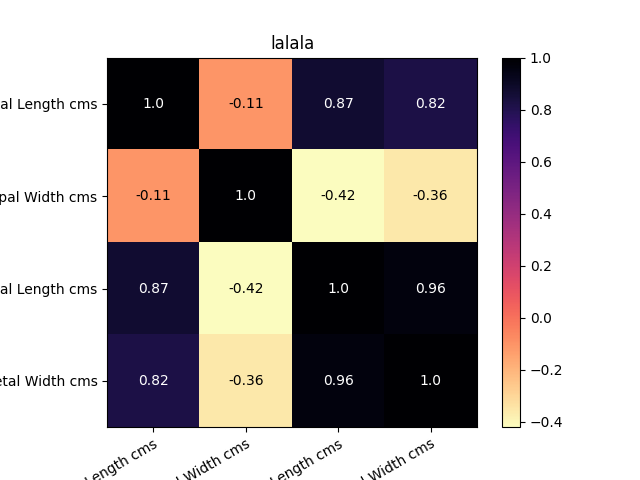
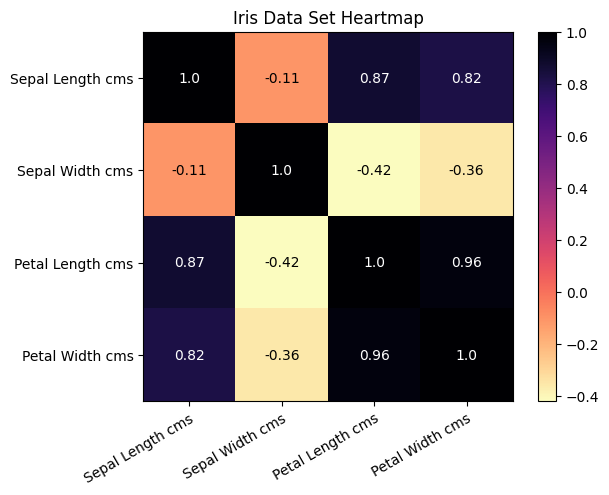
Update README.md to contain description of Heatmaps

diff --git a/analysis.py b/analysis.py
@@ -198,7 +198,7 @@ sns.boxplot(x='Species', y="Petal Length cms", data=outlier_test).set_title("Pet
 plt.savefig('images/plots/box_plots/outliers_box_plots.png')
 plt.show()
 
-# the follwoig lines of code are based on - https://www.geeksforgeeks.org/detect-and-remove-the-outliers-using-python/
+# the following lines of code are based on - https://www.geeksforgeeks.org/detect-and-remove-the-outliers-using-python/
 # accessed- 10/04/2023
 # Define Q1 variable for numpy percentile method for the dataset column sepal width
 Q1 = np.percentile(outlier_test['Petal Length cms'], 25,
@@ -260,6 +260,8 @@ iris_heatmap.drop('Species', axis=1, inplace=True)
 corr = iris_heatmap.corr()
 # The following lines of code to format the heatmap were taken from here
 # https://www.analyticsvidhya.com/blog/2021/06/guide-to-data-visualization-with-python-part-1/ - accessed 10/04/2023
+# and here https://stackoverflow.com/questions/32723798/how-do-i-add-a-title-and-axis-labels-to-seaborn-heatmap -
+# accessed 13/04/2023
 fig, ax = plt.subplots()
 img = ax.imshow(corr.values,cmap = "magma_r")
 # set labels
@@ -281,5 +283,5 @@ for i in range(len(corr.columns)):
             text = ax.text(j, i, np.around(corr.iloc[i, j], decimals=2),
                        ha="center", va="center", color="white")
 
-plt.savefig('images/plots/heatmap/heatmap.png')
+plt.savefig('images/plots/heatmap/heatmap.png', bbox_inches='tight')
 plt.show()

diff --git a/README.md b/README.md
@@ -112,8 +112,8 @@ file of histogram for sepal length
 histogram for sepal width
 ---
 ## Discussion
-Python is an extremely powerful tool for automating the handling of large data sets. Using Python scripting the Iris 
-Data Set was automatically read in as a dataframe by a module within Python from an online data repository. The 
+Python is an extremely powerful tool for automating the handling of large datasets. Using Python scripting the Iris 
+Dataset was automatically read in as a dataframe, by a module within Python, from an online data repository. The 
 Pandas module was used to achieve this. Pandas is a library that can be imported into Python that allows for data 
 analysis through the use of specifically designed tools that automate complex functions on data sets. 
 
@@ -142,16 +142,13 @@ from the table this equals 150, as expected.
 
 ![Data Summary](images/tables/data_summary.png "Iris Data Set Summary")
 
- 
-
-
-Boxplots were used to to identify the presence of outliers in the data set. Outliers are described as objects that 
+Boxplots were used to identify the presence of outliers in the data set. Outliers are described as objects that 
 deviate significantly from the rest for the objects. 
 [Outliers](https://medium.com/analytics-vidhya/its-all-about-outliers-cbe172aa1309) can be caused by a number of things 
 including measurement error, sampling problems and natural variation. The outliers are visible on 
 [Plot 1](images/plots/box_plots/box_plots.png) as diamonds. Plot 1 demonstrates that the number of outliers is minimal.
 
-**Plot 1 - Iris Data Set Boxplots**
+**Plot 1 - Iris Dataset Boxplots**
 
 ![Boxplot](images/plots/box_plots/box_plots.png "Iris Data Set Boxplots")
 
@@ -159,11 +156,11 @@ Applying the [interquartile method](https://www.geeksforgeeks.org/detect-and-rem
 it is possible to remove outliers from the data set using python. The challenge with the Iris data set is it's small
 size and relatively small number of outliers. For demonstrative purposes one could look at cleansing the Iris-setosa 
 petal length outliers. [Plot 2](images/plots/box_plots/outliers_box_plots.png) demonstrates the outliers for this 
-subset of the data set. [Plot 3](images/plots/box_plots/no_outliers_box_plots.png) demonstrates the boxplot for the 
-subset that has been cleansed of outliers using the interquartile method. Plot seems to indicate that 
-further outliers remain. The small dataset size is causing this anomaly. Four outlier data points are removed when 
-applying the interquartile method for this sub dataset. Given the anomaly caused by removing outliers, cleansing data 
-of outliers only adds value with larger data sets. 
+subset of the dataset. [Plot 3](images/plots/box_plots/no_outliers_box_plots.png) demonstrates the boxplot for the 
+subset that has been cleansed of outliers using the interquartile method. Plot 3 appears to indicate that 
+further outliers remain. The small data set size is causing this anomaly. Four outlier data points are removed when 
+applying the interquartile method for this subset of the original data set. Given the anomaly caused by removing 
+outliers, cleansing data of outliers only adds value with larger datasets. 
 
 **Plot 2 - Outlier Demonstration**
 
@@ -204,16 +201,29 @@ length and width.
 
 ![Histogram 4](images/plots/histograms/sepal_width_histogram.png "Iris Data Set Sepal Width Distribution")
 
-Violin plots  (see plot 8) are similar to boxplots. In simple terms denser regions of data are fatter while less dense regions are 
-thinner. The output of this analysis supports the view that there is clear separation in petal length and petal width
-for Iris-setosa, making these variables good identifiers of the Iris-setosa species. It also confirms that there is 
-overlap between sepal length and sepal width making them less ideal candidate for blind classification of the species.
+Violin plots  (see plot 8) are similar to boxplots. In simple terms denser regions of data are fatter while less dense 
+regions are thinner. The output of this analysis supports the view that there is clear separation in petal length and 
+petal width for Iris-setosa, making these variables good identifiers of the Iris-setosa species. It also confirms that 
+there is overlap between sepal length and sepal width making them less ideal candidate for blind classification of the 
+species.
 
-**Plot 8 - Iris Data Set Violin PLots**
+**Plot 8 - Iris Dataset Violin PLots**
 
 ![Violin Plot](images/plots/violin_plots/violin_plots.png "Iris Data Set Violin PLots")
 
 ### Heatmaps
+Heatmaps are used to identify correlations between variables. Values that are closer to 1 or -1 indicate correlation 
+between variables. Colours with values of 1 are represented by dark colours and smaller values are represented by
+lighter colours. 
+
+**Plot 9 - Iris Data Set Heatmap**
+
+![Heatmap](images/plots/heatmap/heatmap.png "Iris Data Set Heatmap")
+
+The heatmap demonstrates a high level of correlation between petal width and petal length (having a vlue close to 1) and
+a low correlation between sepal width and sepal length. The heatmap also demonstrates a relationship between petal 
+length and sepal width and separately between petal width and sepal length.
+
 
 ## Conclusion
 
@@ -231,9 +241,11 @@ overlap between sepal length and sepal width making them less ideal candidate fo
 8. https://www.delftstack.com/howto/python-pandas/pandas-png/ - accessed 30/03/2023
 9. https://www.geeksforgeeks.org/exploratory-data-analysis-on-iris-dataset/ - accessed 03/04/2023
 10. https://www.marsja.se/how-to-save-a-seaborn-plot-as-a-file-e-g-png-pdf-eps-tiff/ - accessed 30/03/2023
-11. https://stackoverflow.com/questions/69660844/count-not-conver-string-to-float-using-iris-dataset - accessed 
+11. https://stackoverflow.com/questions/32723798/how-do-i-add-a-title-and-axis-labels-to-seaborn-heatmap - accessed
+13/04/2023
+12. https://stackoverflow.com/questions/69660844/count-not-conver-string-to-float-using-iris-dataset - accessed 
 10/04/2023
-12. https://www.statology.org/pandas-to-text-file/ - accessed 30/03/2023
+13. https://www.statology.org/pandas-to-text-file/ - accessed 30/03/2023
 
 ### Background Information
 1. https://digital.library.adelaide.edu.au/dspace/bitstream/2440/15227/1/138.pdf - accessed 27/03/2023
@@ -244,9 +256,9 @@ overlap between sepal length and sepal width making them less ideal candidate fo
 6. https://en.wikipedia.org/wiki/Ronald_Fisher - accessed 27/03/2023
 7. https://en.wikipedia.org/wiki/Sepal - accessed 27/03/2023
 8. https://en.wikipedia.org/wiki/Violin_plot - accessed 10/04/2023
-8. (https://medium.com/analytics-vidhya/its-all-about-outliers-cbe172aa1309) - accessed 10/04/2023
-9. https://seaborn.pydata.org/index.html - accessed 06/04/2023
-10. https://www.kaggle.com/code/amrut11/iris-dataset-univariate-bivariate-multivariate - accessed 27/03/2023
+9. (https://medium.com/analytics-vidhya/its-all-about-outliers-cbe172aa1309) - accessed 10/04/2023
+10. https://seaborn.pydata.org/index.html - accessed 06/04/2023
+11. https://www.kaggle.com/code/amrut11/iris-dataset-univariate-bivariate-multivariate - accessed 27/03/2023
 
 ---
 
